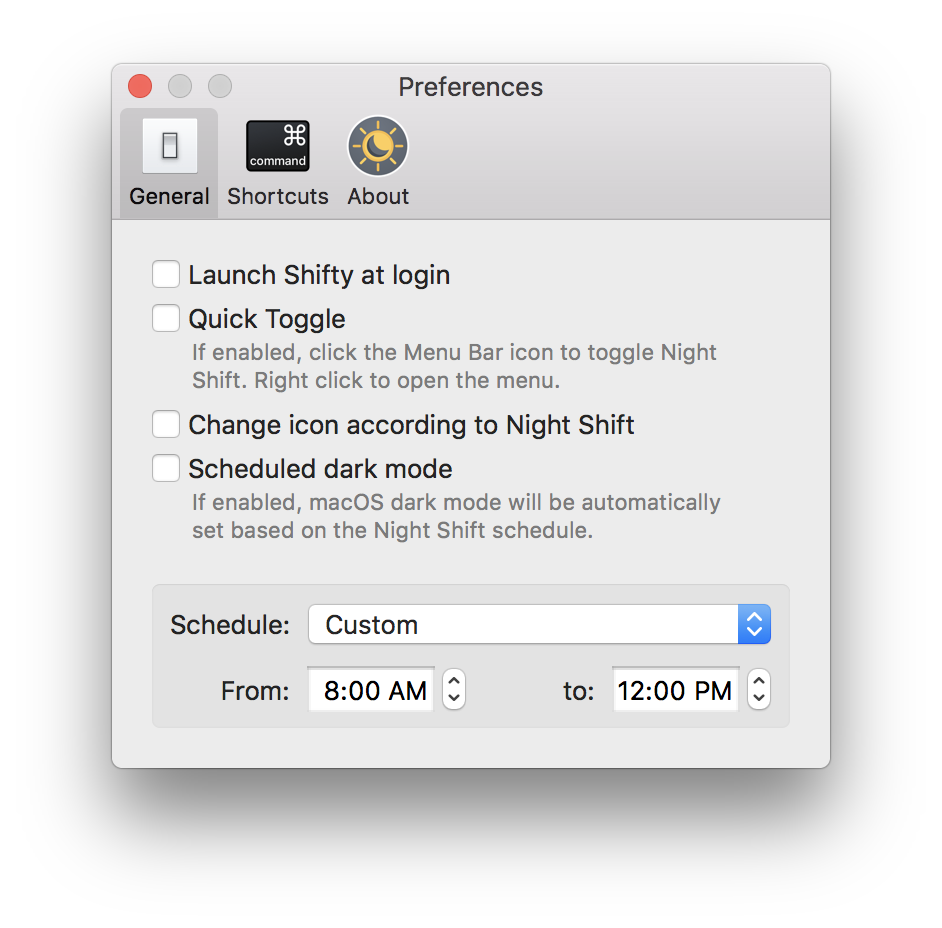
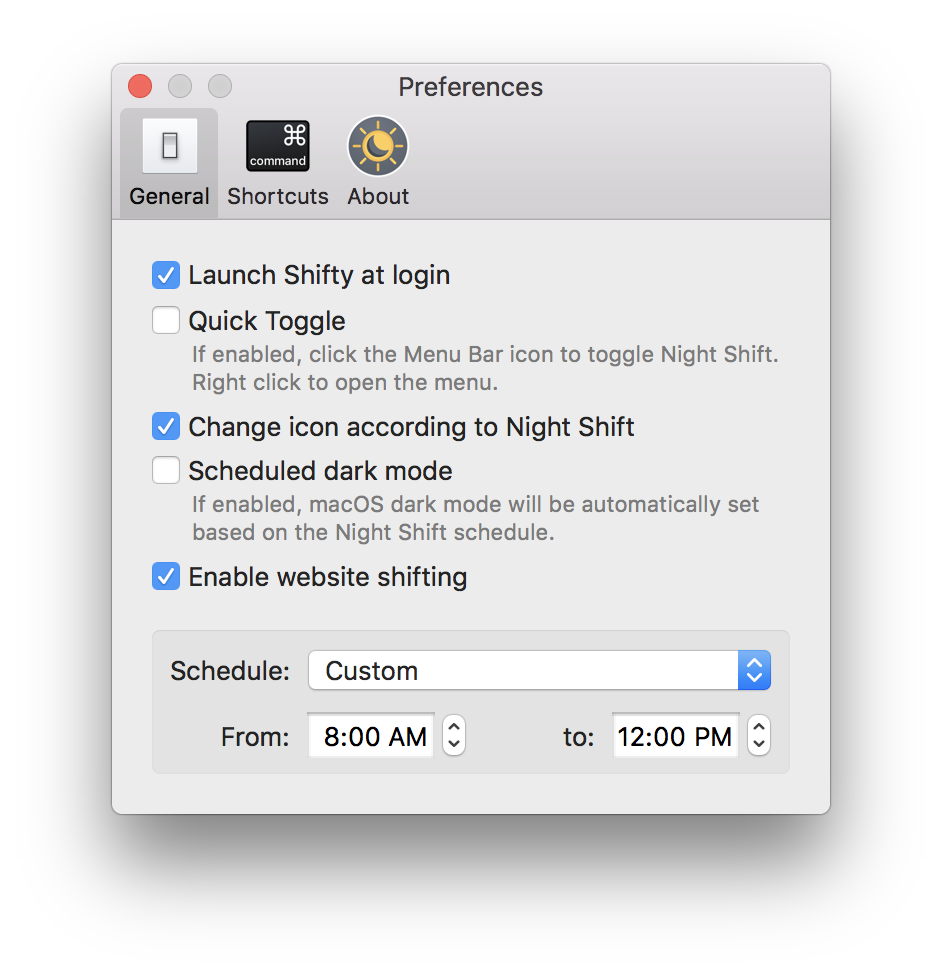
update website and readme for website shifting

Changed region(s): [[0.1231, 0.0625, 0.8928, 0.7812], [0.1231, 0.8125, 0.8928, 0.8438]]

diff --git a/docs/en/index.md b/docs/en/index.md
@@ -4,7 +4,7 @@ layout: default
 ref: home
 lang: en
 ---
-Shifty was made to expand the capabilities of the built in Night Shift feature in macOS. You can disable Night Shift for specific apps and custom time periods. It also provides easy access to a slider to fine tune your color temperature. With Shifty, Night Shift becomes a power user feature!
+Shifty was made to expand the capabilities of the built in Night Shift feature in macOS. You can disable Night Shift for specific apps, websites, and custom time periods. It also provides easy access to a slider to fine tune your color temperature. With Shifty, Night Shift becomes a power user feature!
 
 <div id="screenshot-container">
   <img class="shifty-screenshot" src="images/shifty-screenshot-large.png"/>
@@ -22,8 +22,11 @@ Shifty was made to expand the capabilities of the built in Night Shift feature i
 ##### System requirements:
 * macOS 10.12.4 or later
 * System meets the [requirements for Night Shift](https://support.apple.com/HT207513#requirements)
+* Website shifting supports Safari, Chrome, and Vivaldi.
 
 <br>
-If you love Shifty, [donate]({{ site.donate_link_usd }}) to help me make it better.
+If you love Shifty, consider [donating]({{ site.donate_link_usd }}) to help me make it better.
 
 Shifty is free and open source, licensed under [GPLv3]({{ site.license_link }}). [Contribute on GitHub]({{ site.repository_link }})
+
+If you would like to help translate Shifty into other languages, you can contribute [here](http://translate.shifty.natethompson.io).

diff --git a/README.md b/README.md
@@ -1,4 +1,4 @@
-Shifty was made to expand the capabilities of the built in Night Shift feature in macOS. You can disable Night Shift for specific apps and custom time periods. It also provides easy access to a slider to fine tune your color temperature. With Shifty, Night Shift becomes a power user feature!
+Shifty was made to expand the capabilities of the built in Night Shift feature in macOS. You can disable Night Shift for specific apps, websites, and custom time periods. It also provides easy access to a slider to fine tune your color temperature. With Shifty, Night Shift becomes a power user feature!
 
 <img src='docs/en/images/shifty-screenshot-large.png' width=70%>
 
@@ -9,6 +9,9 @@ Shifty is customizable! Make it easier to toggle Night Shift with Quick Toggle o
 ### System requirements:
 * macOS 10.12.4 or later
 * System meets the [requirements for Night Shift](https://support.apple.com/en-us/HT207513#requirements)
+* Website shifting supports Safari, Chrome, and Vivaldi.
 
 <br>
-Shifty is free and open source, licensed under AGPL-3.0. Feel free to make a pull request!
+Shifty is free and open source, licensed under GPLv3. Feel free to make a pull request!
+
+If you'd like to help translate Shifty into other languages, you can contribute [here](http://translate.shifty.natethompson.io).
